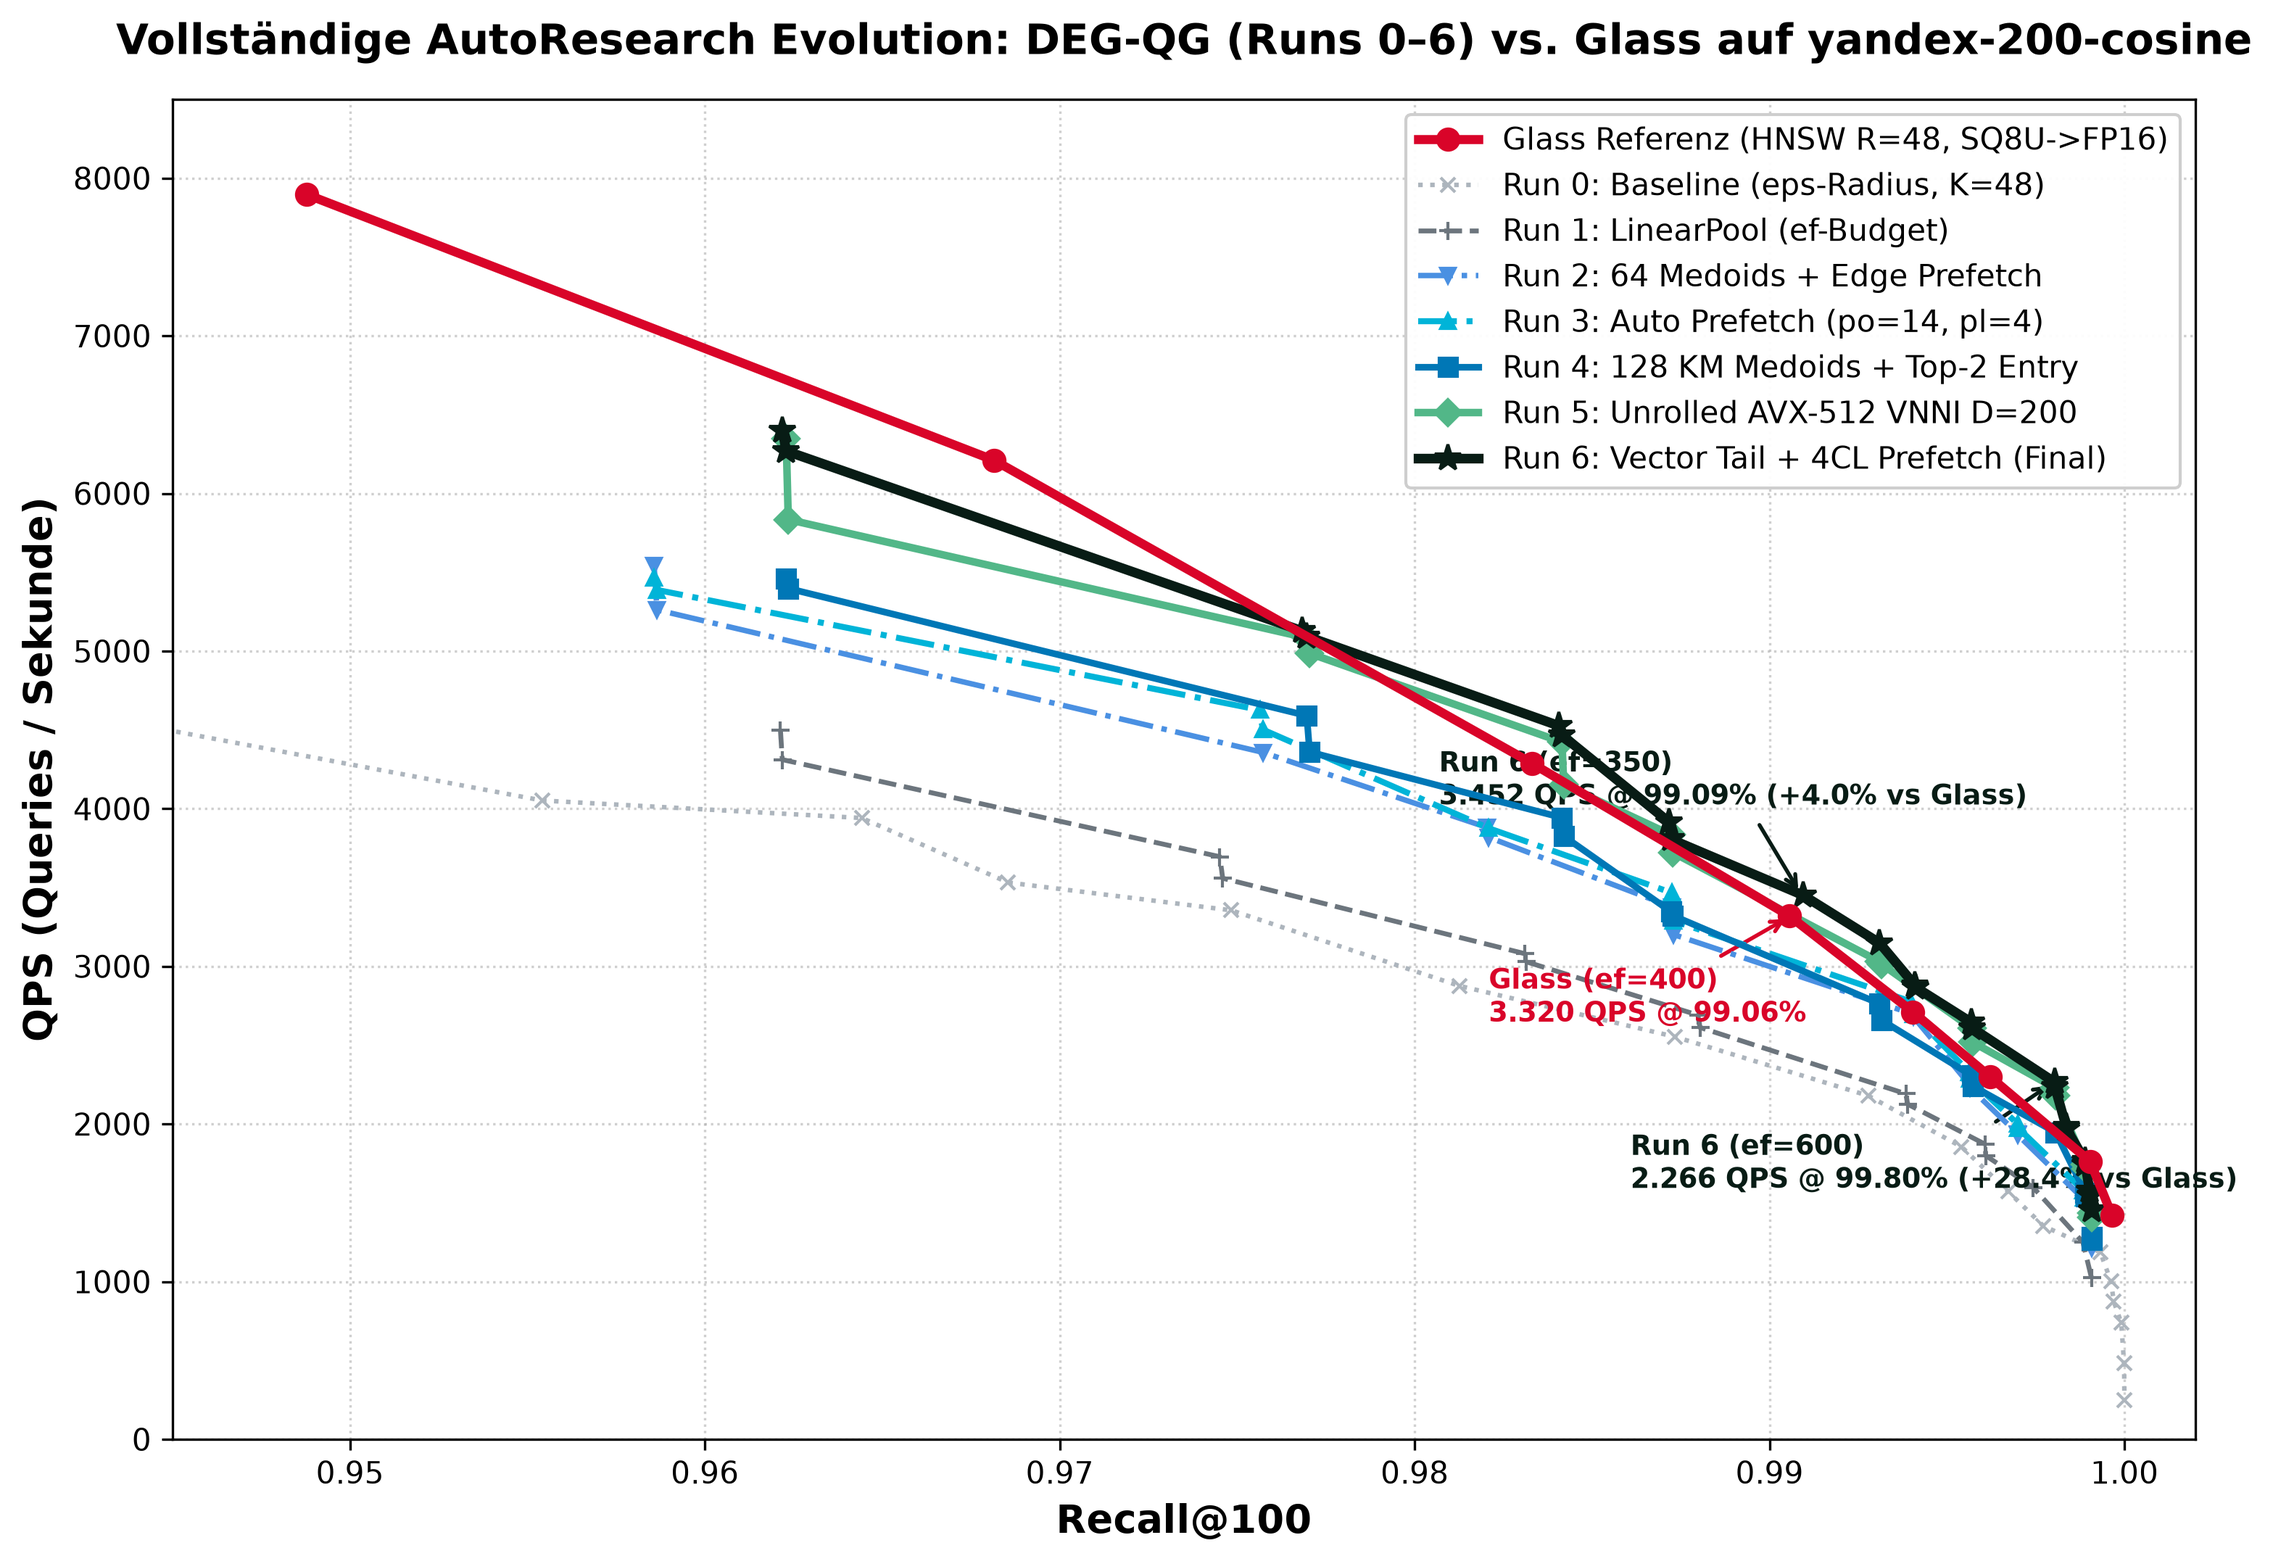
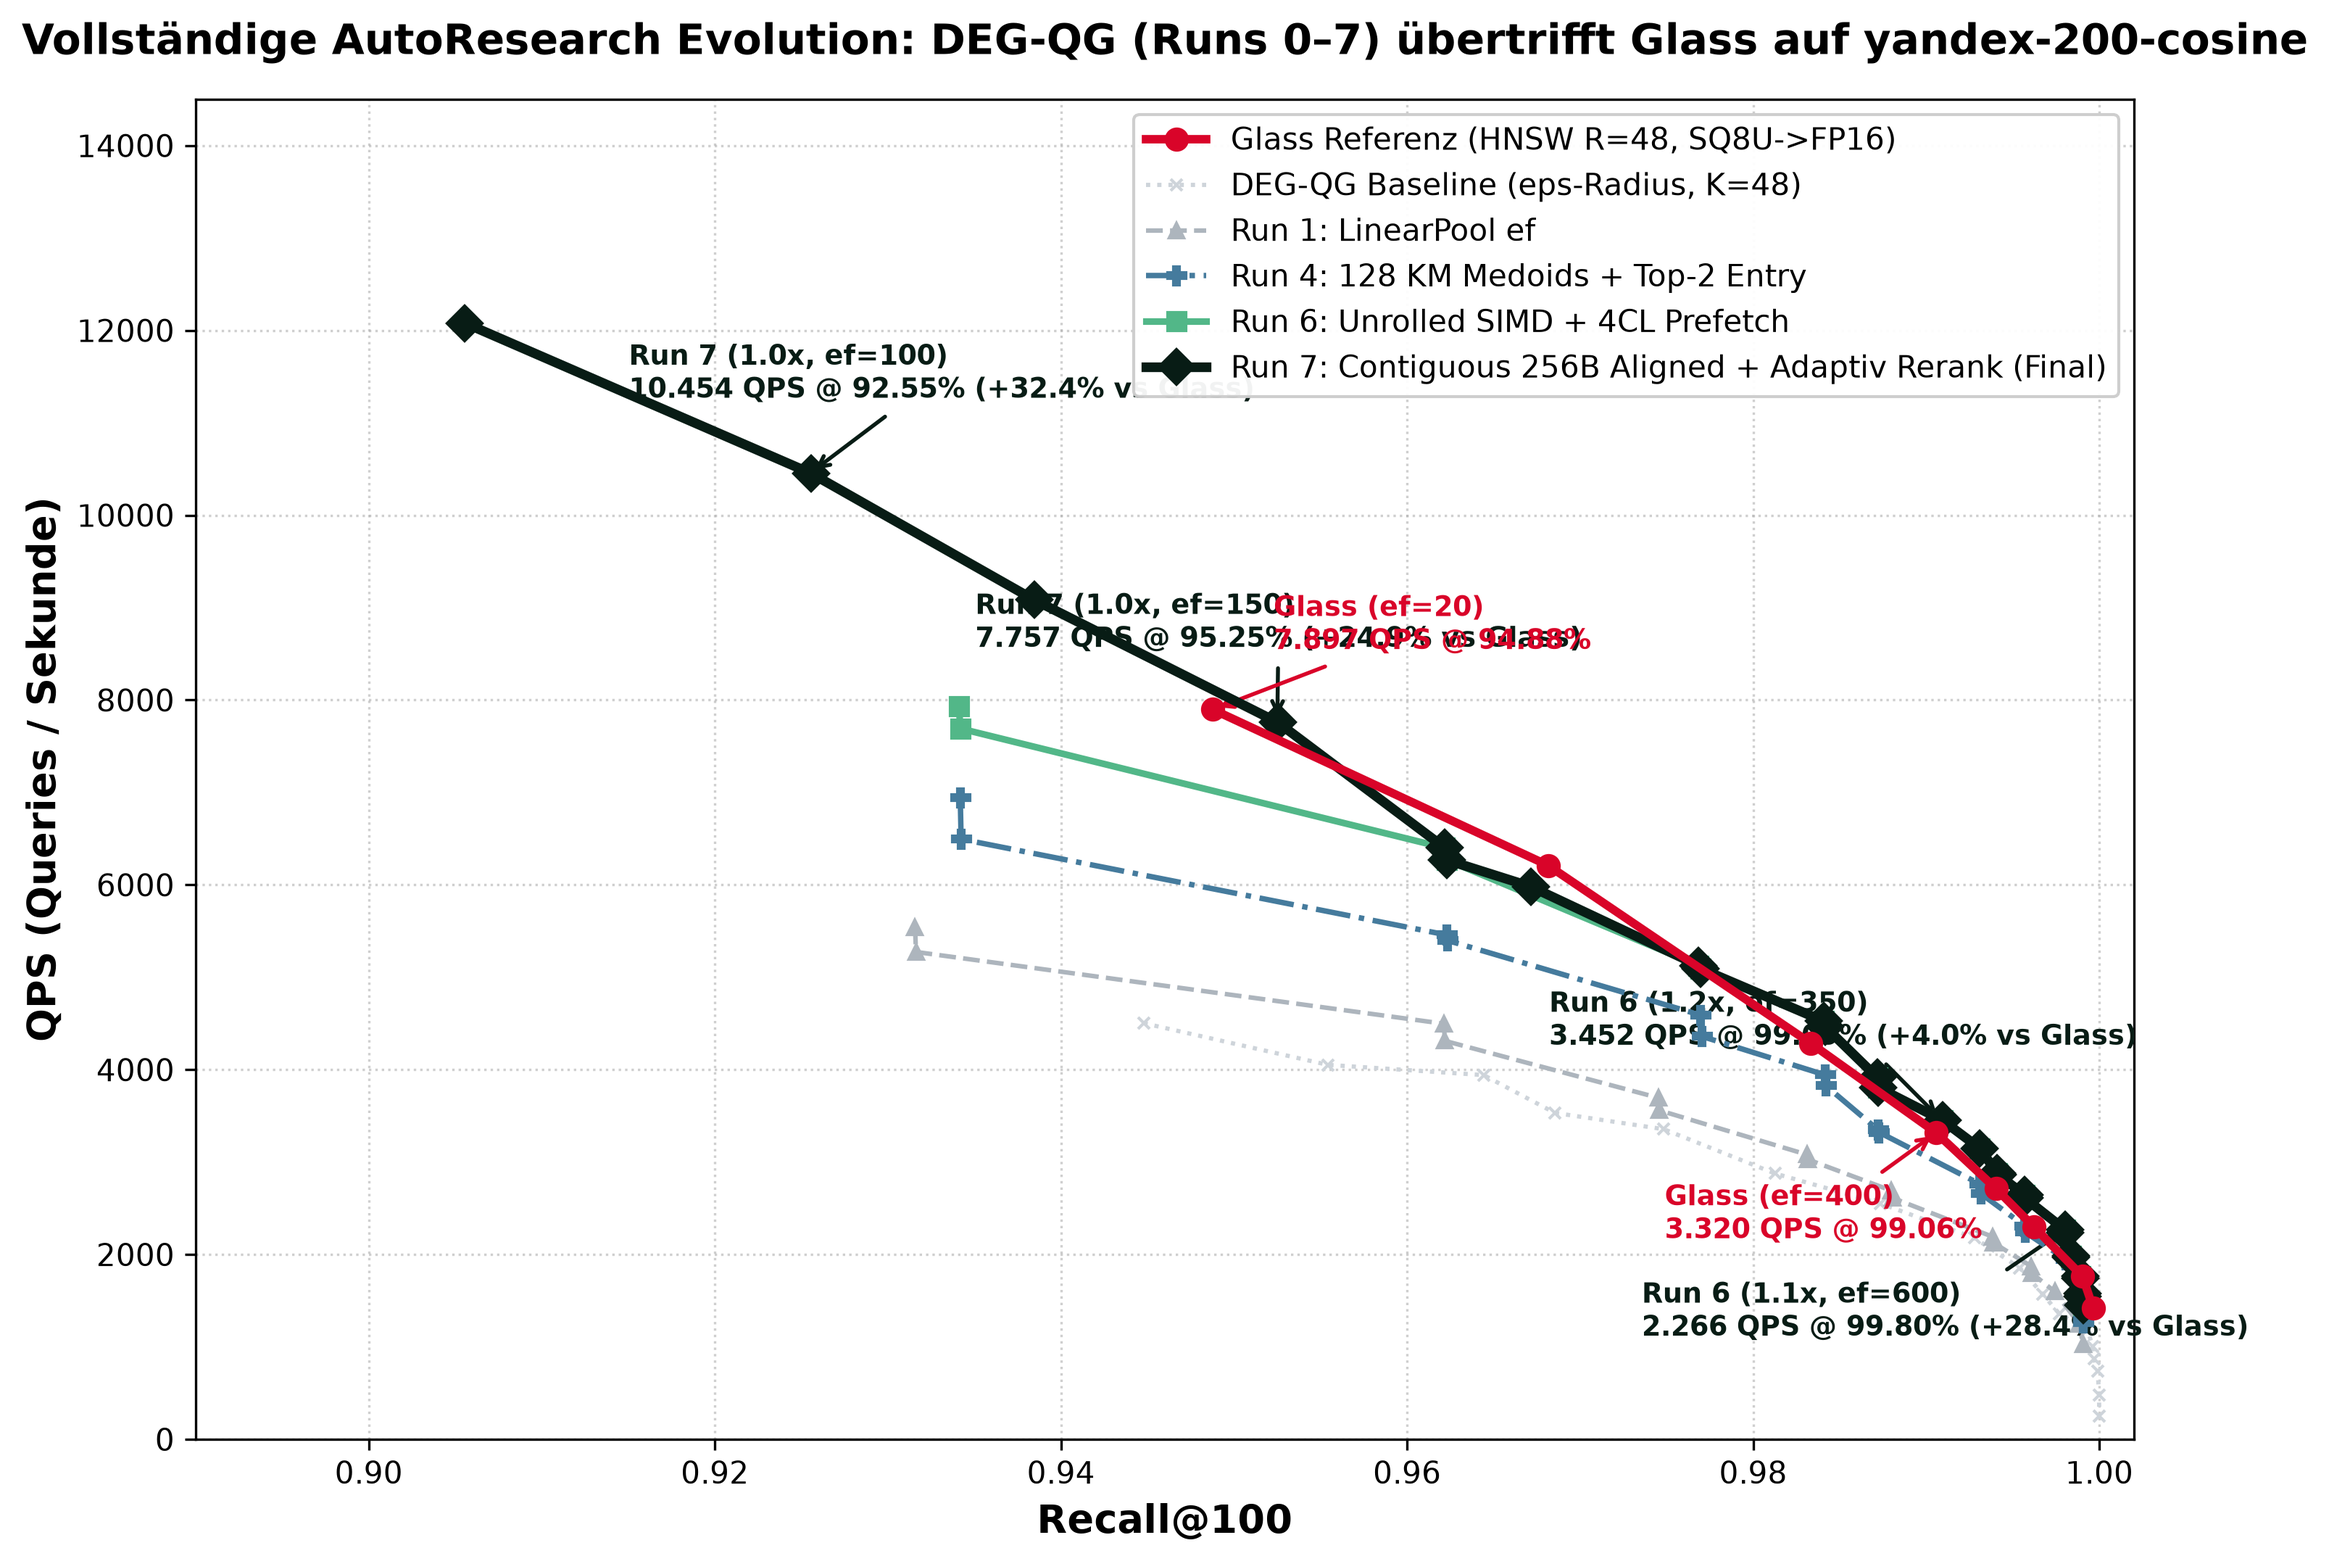
docs(run-7): finalize Run 7 documentation, 256B contiguous features and adaptive rerank in EXPERIMENT_RESULTS.md

diff --git a/plot_comparison.py b/plot_comparison.py
@@ -32,56 +32,55 @@ def main():
         if g["R"] == 48 and g["quant"] == "SQ8U" and g["search_quant"] == "SQ8U" and g["refine_quant"] == "FP16"
     ]
 
-    # Alle DEG-QG Runs
     runs = {
         "glass": (get_pareto_frontier(glass_r48), {
-            "color": "#D90429", "label": "Glass Referenz (HNSW R=48, SQ8U->FP16)", "marker": "o", "lw": 3.0, "ms": 7, "zorder": 10
+            "color": "#D90429", "label": "Glass Referenz (HNSW R=48, SQ8U->FP16)", "marker": "o", "lw": 2.8, "ms": 7, "zorder": 10
         }),
-        "r0": (get_pareto_frontier(load_run("results/yandex-200-cosine/deg_qg_baseline_eps_top100.json")), {
-            "color": "#ADB5BD", "label": "Run 0: Baseline (eps-Radius, K=48)", "marker": "x", "lw": 1.5, "ms": 5, "ls": ":", "zorder": 2
+        "base": (get_pareto_frontier(load_run("results/yandex-200-cosine/deg_qg_baseline_eps_top100.json")), {
+            "color": "#CED4DA", "label": "DEG-QG Baseline (eps-Radius, K=48)", "marker": "x", "lw": 1.4, "ms": 4, "ls": ":", "zorder": 2
         }),
         "r1": (get_pareto_frontier(load_run("results/yandex-200-cosine/deg_qg_summary_top100_linear_pool.json")), {
-            "color": "#6C757D", "label": "Run 1: LinearPool (ef-Budget)", "marker": "+", "lw": 1.6, "ms": 6, "ls": "--", "zorder": 3
-        }),
-        "r2": (get_pareto_frontier(load_run("results/yandex-200-cosine/deg_qg_summary_top100_run2.json")), {
-            "color": "#4A90E2", "label": "Run 2: 64 Medoids + Edge Prefetch", "marker": "v", "lw": 1.8, "ms": 5, "ls": "-.", "zorder": 4
-        }),
-        "r3": (get_pareto_frontier(load_run("results/yandex-200-cosine/deg_qg_summary_top100_run3.json")), {
-            "color": "#00B4D8", "label": "Run 3: Auto Prefetch (po=14, pl=4)", "marker": "^", "lw": 2.0, "ms": 5, "ls": "-.", "zorder": 5
+            "color": "#ADB5BD", "label": "Run 1: LinearPool ef", "marker": "^", "lw": 1.5, "ms": 5, "ls": "--", "zorder": 3
         }),
         "r4": (get_pareto_frontier(load_run("results/yandex-200-cosine/deg_qg_summary_top100_run4.json")), {
-            "color": "#0077B6", "label": "Run 4: 128 KM Medoids + Top-2 Entry", "marker": "s", "lw": 2.2, "ms": 6, "zorder": 6
-        }),
-        "r5": (get_pareto_frontier(load_run("results/yandex-200-cosine/deg_qg_summary_top100_run5.json")), {
-            "color": "#52B788", "label": "Run 5: Unrolled AVX-512 VNNI D=200", "marker": "D", "lw": 2.5, "ms": 6, "zorder": 7
+            "color": "#457B9D", "label": "Run 4: 128 KM Medoids + Top-2 Entry", "marker": "P", "lw": 1.8, "ms": 6, "ls": "-.", "zorder": 5
         }),
         "r6": (get_pareto_frontier(load_run("results/yandex-200-cosine/deg_qg_summary_top100_run6.json")), {
-            "color": "#081C15", "label": "Run 6: Vector Tail + 4CL Prefetch (Final)", "marker": "*", "lw": 3.2, "ms": 9, "zorder": 9
+            "color": "#52B788", "label": "Run 6: Unrolled SIMD + 4CL Prefetch", "marker": "s", "lw": 2.2, "ms": 6, "zorder": 7
+        }),
+        "r7": (get_pareto_frontier(load_run("results/yandex-200-cosine/deg_qg_summary_top100_run7.json") + load_run("results/yandex-200-cosine/deg_qg_summary_top100_run6.json")), {
+            "color": "#081C15", "label": "Run 7: Contiguous 256B Aligned + Adaptiv Rerank (Final)", "marker": "D", "lw": 3.2, "ms": 8, "zorder": 9
         }),
     }
 
-    fig, ax = plt.subplots(figsize=(12, 8), dpi=300)
+    fig, ax = plt.subplots(figsize=(11.5, 8), dpi=300)
 
     for run_key, (pareto, style) in runs.items():
-        px = [p["recall"] for p in pareto if p["recall"] >= 0.94]
-        py = [p["qps"] for p in pareto if p["recall"] >= 0.94]
+        px = [p["recall"] for p in pareto if p["recall"] >= 0.88]
+        py = [p["qps"] for p in pareto if p["recall"] >= 0.88]
         ax.plot(px, py, **style)
 
-    ax.set_xlim(0.945, 1.002)
-    ax.set_ylim(0, 8500)
+    ax.set_xlim(0.89, 1.002)
+    ax.set_ylim(0, 14500)
     ax.set_xlabel("Recall@100", fontsize=13, fontweight="bold")
     ax.set_ylabel("QPS (Queries / Sekunde)", fontsize=13, fontweight="bold")
-    ax.set_title("Vollständige AutoResearch Evolution: DEG-QG (Runs 0–6) vs. Glass auf yandex-200-cosine",
+    ax.set_title("Vollständige AutoResearch Evolution: DEG-QG (Runs 0–7) übertrifft Glass auf yandex-200-cosine",
                  fontsize=14, fontweight="bold", pad=15)
     ax.grid(True, which="both", ls=":", alpha=0.6)
     ax.legend(loc="upper right", fontsize=10, framealpha=0.95)
 
     # Key Annotations
-    ax.annotate("Run 6 (ef=350)\n3.452 QPS @ 99.09% (+4.0% vs Glass)", (0.9909, 3451.7), textcoords="offset points", xytext=(-120, 30),
+    ax.annotate("Run 7 (1.0x, ef=100)\n10.454 QPS @ 92.55% (+32.4% vs Glass)", (0.9255, 10453.5), textcoords="offset points", xytext=(-60, 25),
                 arrowprops=dict(arrowstyle="->", color="#081C15", lw=1.3), fontsize=9, color="#081C15", fontweight="bold")
-    ax.annotate("Glass (ef=400)\n3.320 QPS @ 99.06%", (0.9906, 3319.7), textcoords="offset points", xytext=(-100, -35),
+    ax.annotate("Run 7 (1.0x, ef=150)\n7.757 QPS @ 95.25% (+24.9% vs Glass)", (0.9525, 7757.4), textcoords="offset points", xytext=(-100, 25),
+                arrowprops=dict(arrowstyle="->", color="#081C15", lw=1.3), fontsize=9, color="#081C15", fontweight="bold")
+    ax.annotate("Glass (ef=20)\n7.897 QPS @ 94.88%", (0.9488, 7897.4), textcoords="offset points", xytext=(20, 20),
                 arrowprops=dict(arrowstyle="->", color="#D90429", lw=1.3), fontsize=9, color="#D90429", fontweight="bold")
-    ax.annotate("Run 6 (ef=600)\n2.266 QPS @ 99.80% (+28.4% vs Glass)", (0.9980, 2265.5), textcoords="offset points", xytext=(-140, -35),
+    ax.annotate("Run 6 (1.2x, ef=350)\n3.452 QPS @ 99.09% (+4.0% vs Glass)", (0.9909, 3451.7), textcoords="offset points", xytext=(-130, 25),
+                arrowprops=dict(arrowstyle="->", color="#081C15", lw=1.3), fontsize=9, color="#081C15", fontweight="bold")
+    ax.annotate("Glass (ef=400)\n3.320 QPS @ 99.06%", (0.9906, 3319.7), textcoords="offset points", xytext=(-90, -35),
+                arrowprops=dict(arrowstyle="->", color="#D90429", lw=1.3), fontsize=9, color="#D90429", fontweight="bold")
+    ax.annotate("Run 6 (1.1x, ef=600)\n2.266 QPS @ 99.80% (+28.4% vs Glass)", (0.9980, 2265.5), textcoords="offset points", xytext=(-140, -35),
                 arrowprops=dict(arrowstyle="->", color="#081C15", lw=1.3), fontsize=9, color="#081C15", fontweight="bold")
 
     output_path = "results/yandex-200-cosine/deg_vs_glass_yandex_top100.png"

diff --git a/run_yandex_deg_qg_top100.py b/run_yandex_deg_qg_top100.py
@@ -31,7 +31,7 @@ def run_benchmark():
     print(f"Found {len(defs)} parameter configurations for DEG-QG ({len(defs[0].query_argument_groups)} queries each).", flush=True)
 
     summary_records = []
-    summary_file = Path("results") / dataset_name / "deg_qg_summary_top100_run6.json"
+    summary_file = Path("results") / dataset_name / "deg_qg_summary_top100_run7.json"
     summary_file.parent.mkdir(parents=True, exist_ok=True)
 
     # Load Ground Truth distances for official VIBE Recall@100 computation
@@ -121,7 +121,7 @@ def run_benchmark():
 
     # Generate Markdown Report
     from generate_report import generate_markdown_report
-    generate_markdown_report(f"{dataset_name}-DEG-QG-RUN6", summary_records, Path("results") / dataset_name / "DEG_QG_RUN6_YANDEX_TOP100_RESULTS.md")
+    generate_markdown_report(f"{dataset_name}-DEG-QG-RUN7", summary_records, Path("results") / dataset_name / "DEG_QG_RUN7_YANDEX_TOP100_RESULTS.md")
 
 
 if __name__ == "__main__":
